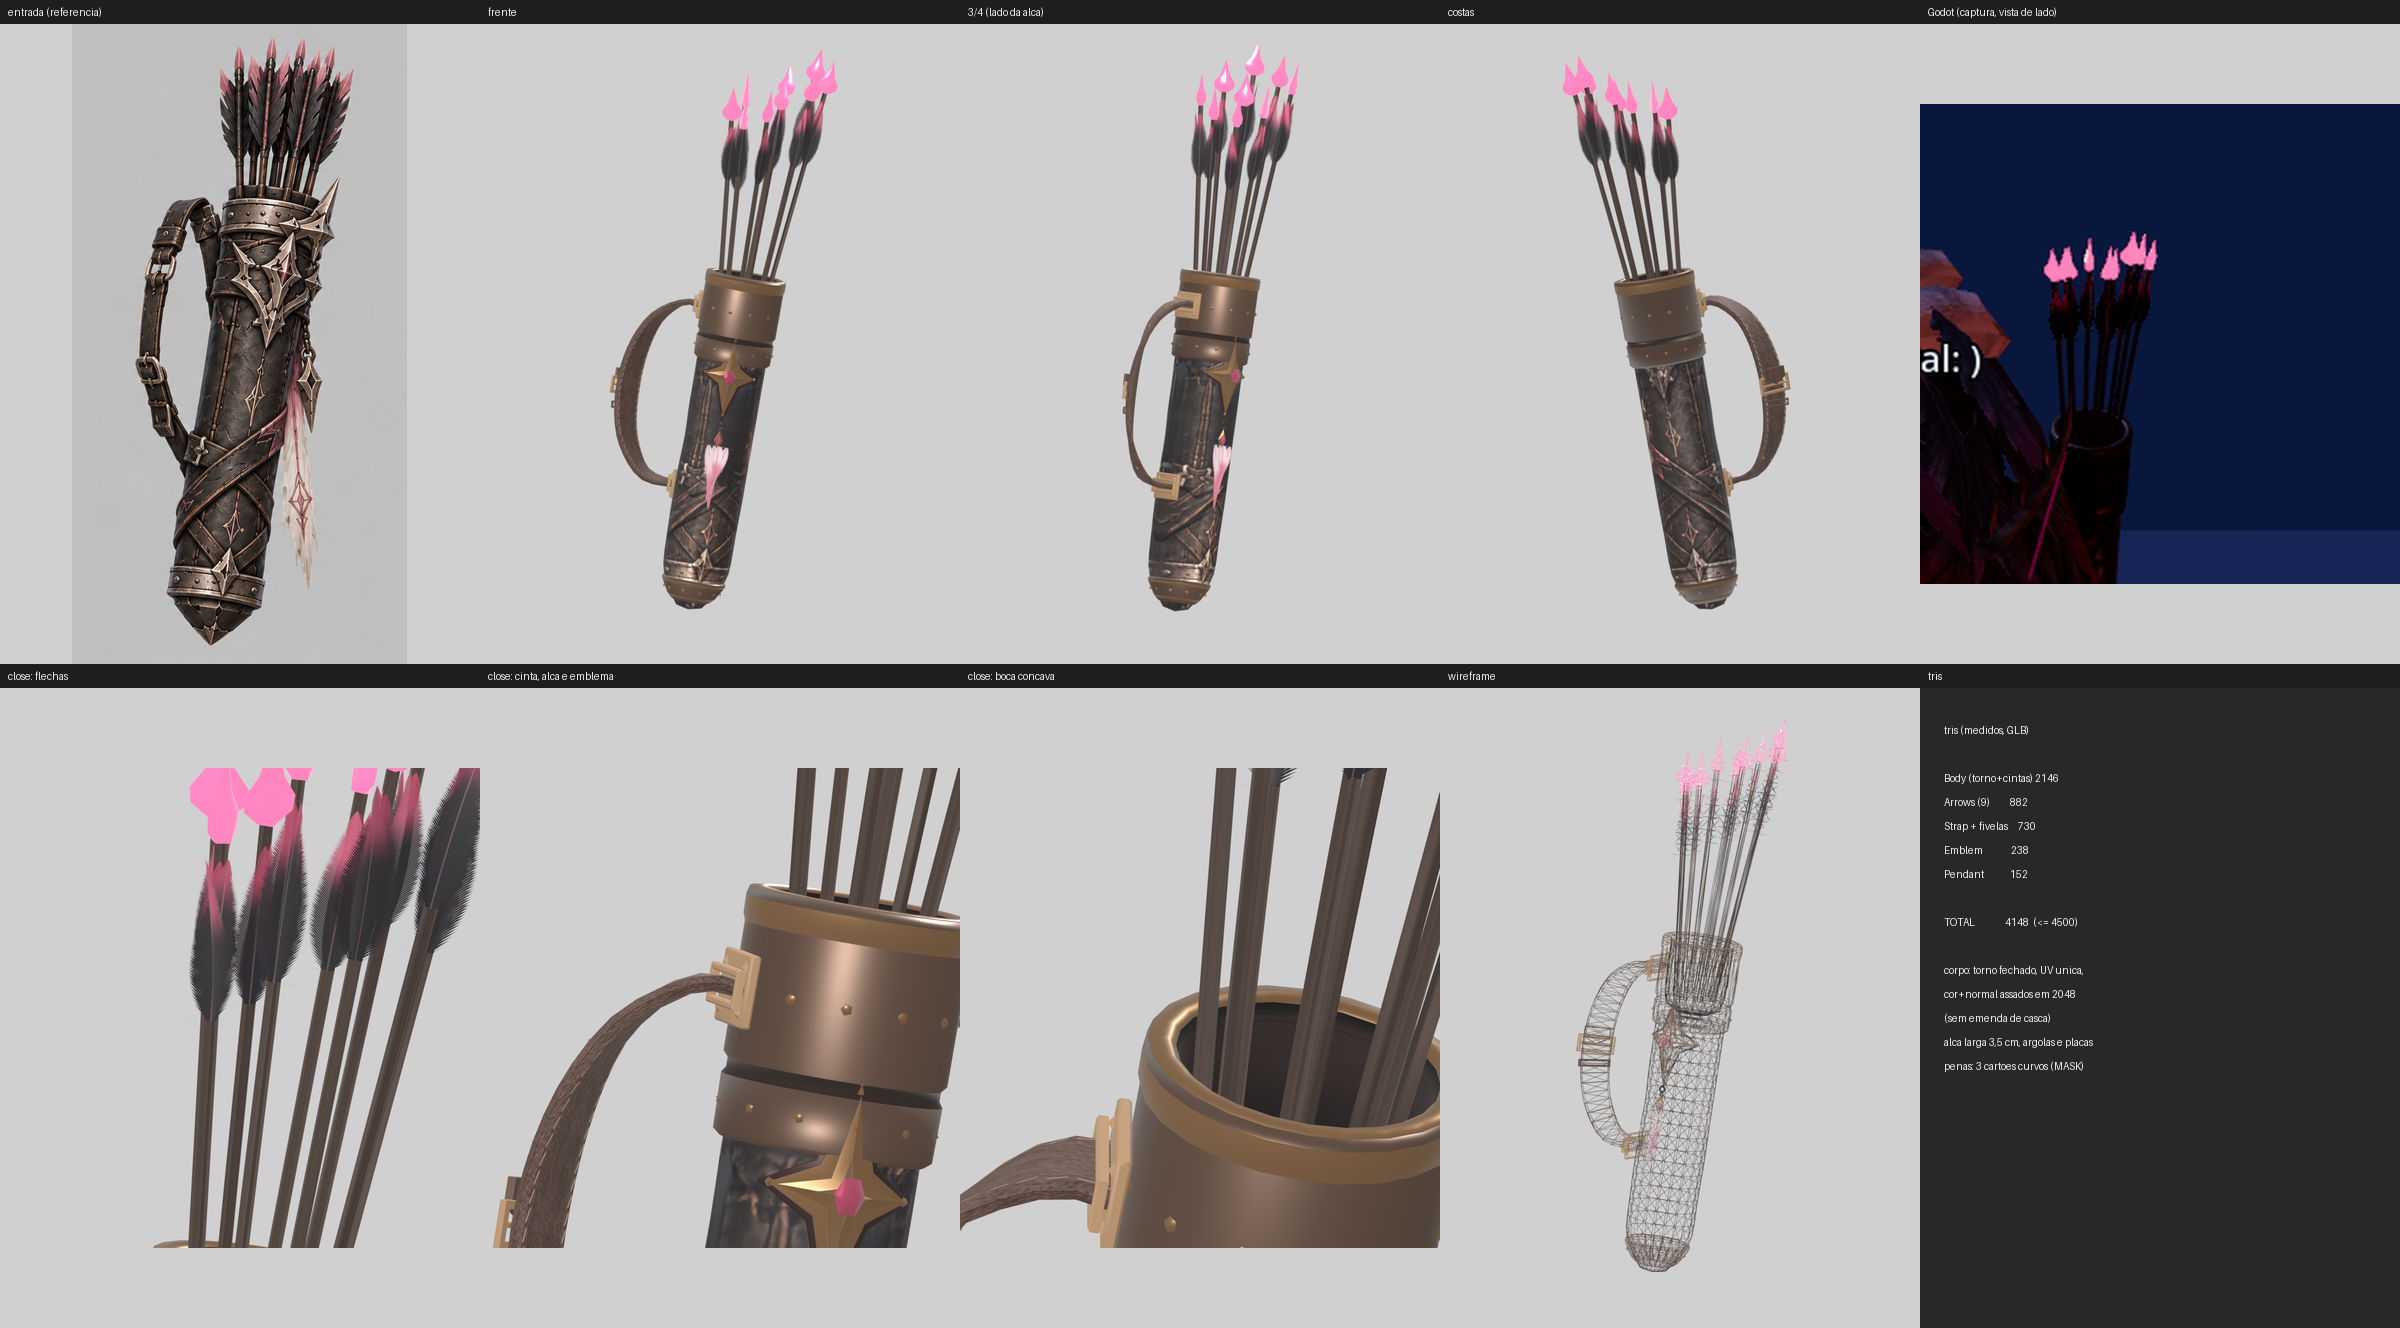
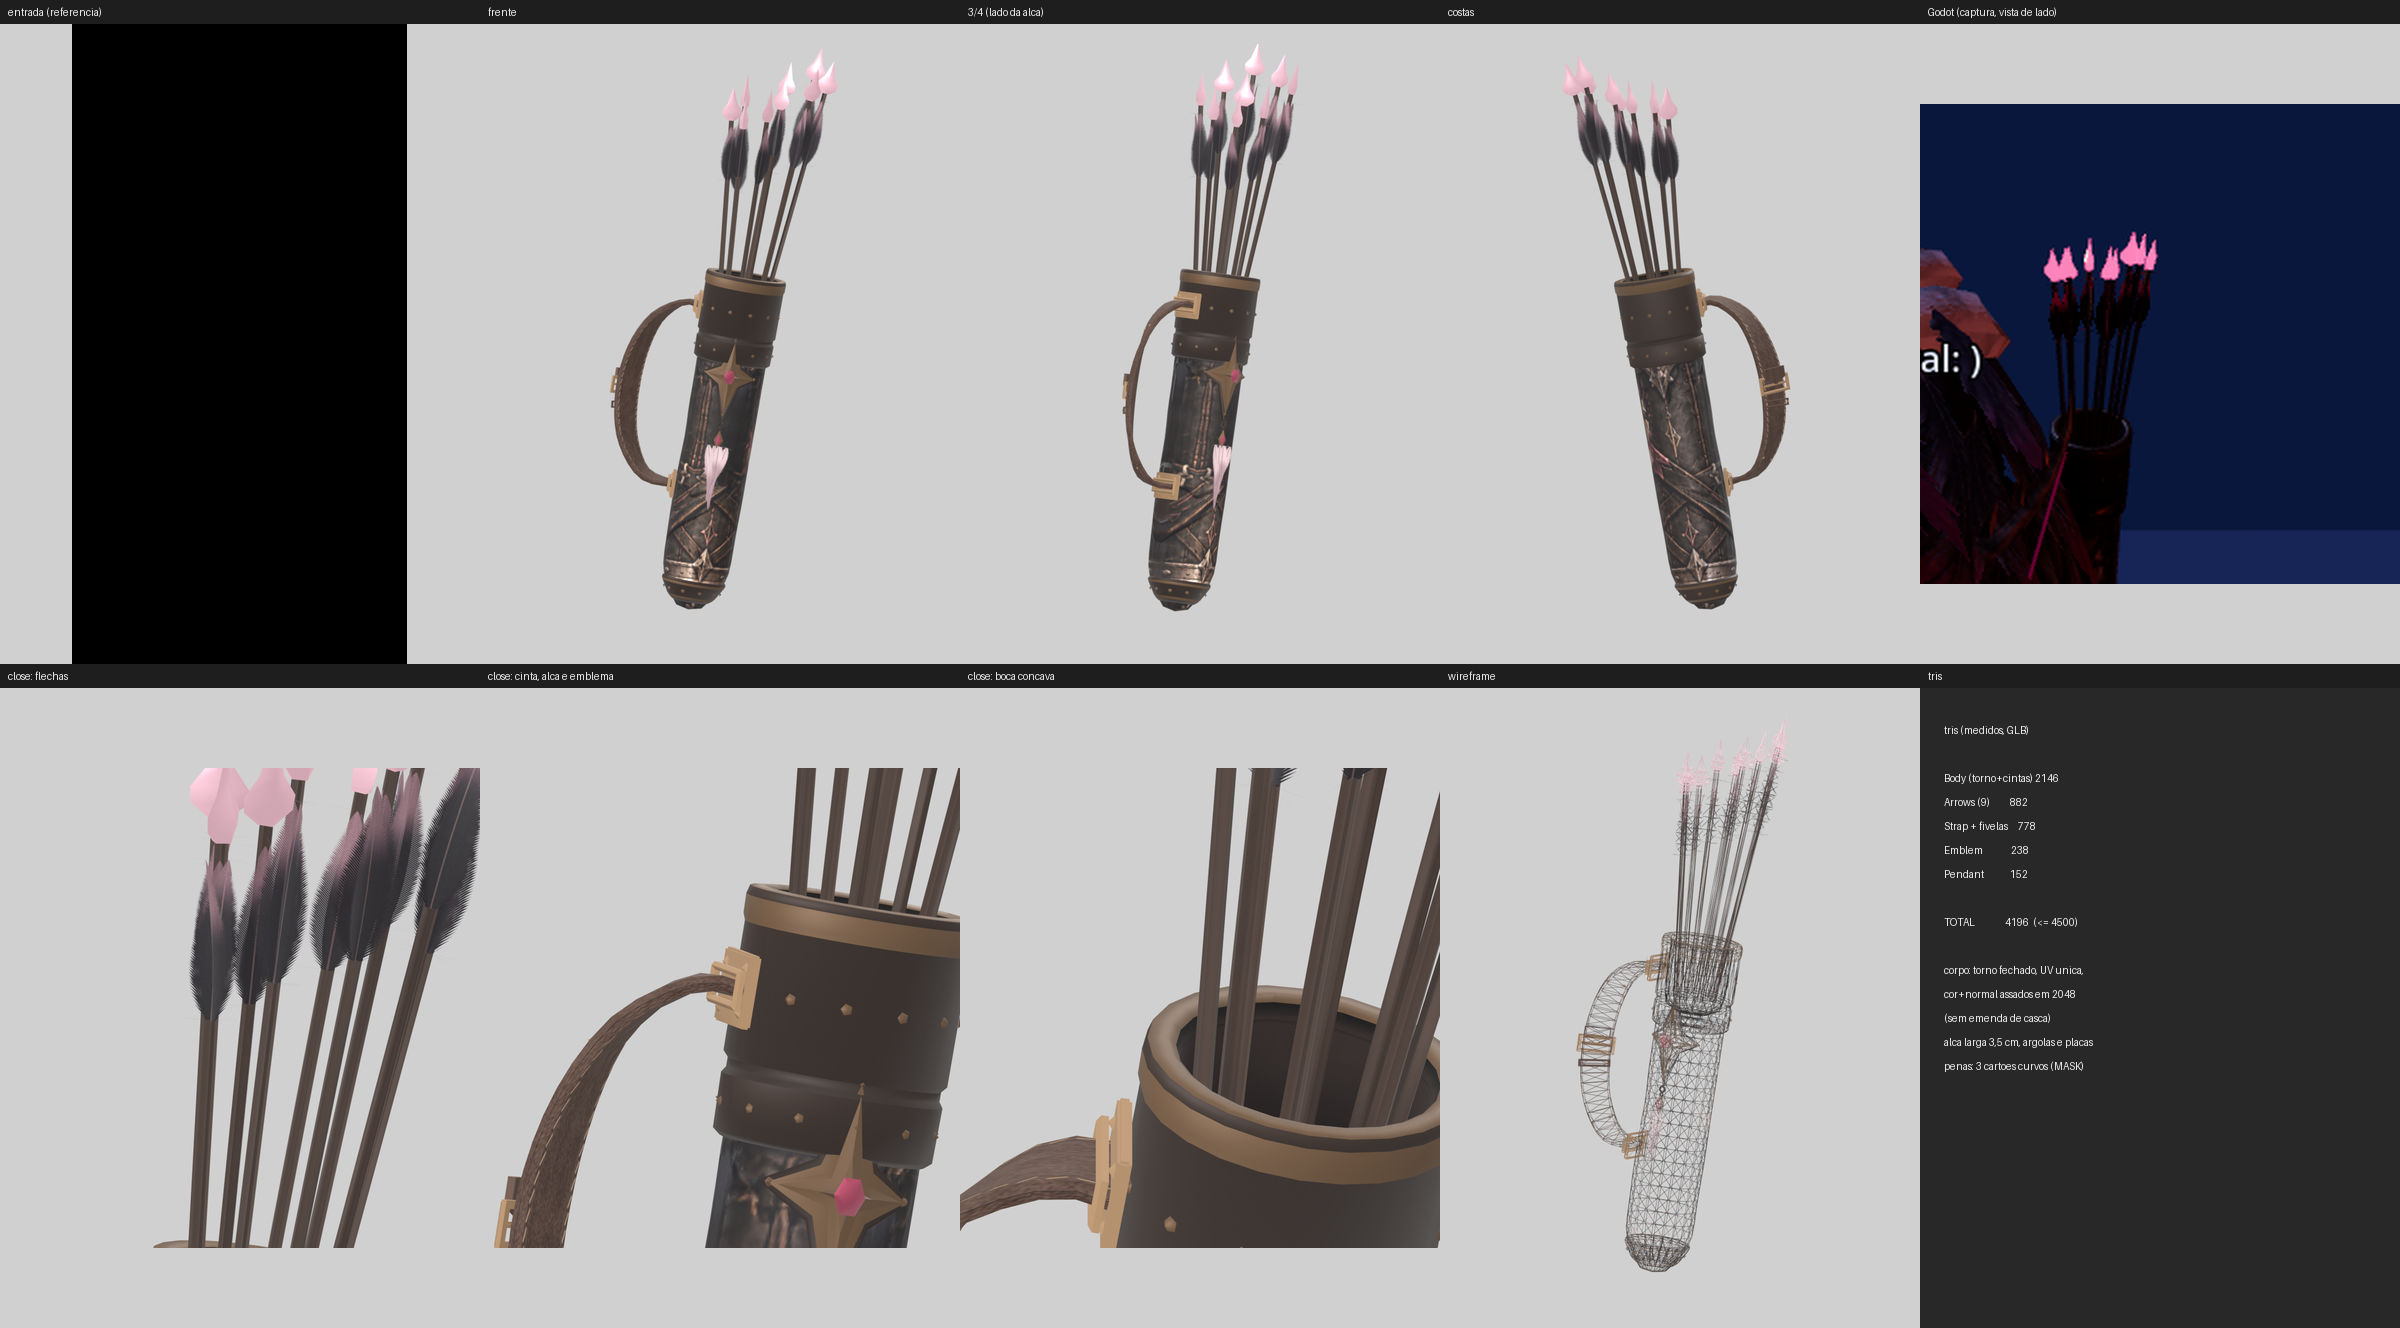
fix(arte): aljava do arqueiro dark - bisel nas fivelas, emblema gasto, rosa e brilho menores
Claude-Session: https://claude.ai/code/session_01WC4FgazM6iEKfa9eY6QmCj

diff --git a/art-src/modelos/scripts/aljava_v4_build.py b/art-src/modelos/scripts/aljava_v4_build.py
@@ -60,11 +60,11 @@ def mat(name, img=None, nrm=None, rough=0.7, metal=0.0, color=(0.05, 0.04, 0.04,
 
 m_body = mat("M_ArcherDark_Quiver_Body", tex + "/T_ArcherDark_Quiver_Body_BC.png", tex + "/T_ArcherDark_Quiver_Body_N.png", rough=0.72, nstr=1.6, cull=True)
 m_in = mat("M_ArcherDark_Quiver_Inside", tex + "/T_ArcherDark_Inside_BC.png", rough=0.95, cull=True)
-m_metal = mat("M_ArcherDark_Metal", tex + "/T_ArcherDark_Emblem_BC.png", tex + "/T_ArcherDark_Emblem_N.png", rough=0.42, metal=0.65, nstr=1.4)
+m_metal = mat("M_ArcherDark_Metal", tex + "/T_ArcherDark_Emblem_BC.png", tex + "/T_ArcherDark_Emblem_N.png", rough=0.62, metal=0.35, nstr=1.4)
 m_arr = mat("M_ArcherDark_Arrows", tex + "/T_ArcherDark_Arrows_BC.png", rough=0.6, alpha=True)
-m_tip = mat("M_ArcherDark_ArrowTip", rough=0.2, metal=0.85, color=(0.93, 0.20, 0.42, 1), emit=(1.0, 0.18, 0.42, 1))
-m_strap = mat("M_ArcherDark_Strap", tex + "/T_ArcherDark_Strap_BC.png", tex + "/T_ArcherDark_Strap_N.png", rough=0.7, nstr=1.3)
-m_emb = mat("M_ArcherDark_Emblem", tex + "/T_ArcherDark_Emblem_BC.png", tex + "/T_ArcherDark_Emblem_N.png", rough=0.4, metal=0.65, nstr=1.4)
+m_tip = mat("M_ArcherDark_ArrowTip", rough=0.5, metal=0.45, color=(0.62, 0.40, 0.46, 1), emit=(0.42, 0.22, 0.27, 1))
+m_strap = mat("M_ArcherDark_Strap", tex + "/T_ArcherDark_Strap_BC.png", tex + "/T_ArcherDark_Strap_N.png", rough=0.8, nstr=1.3)
+m_emb = mat("M_ArcherDark_Emblem", tex + "/T_ArcherDark_Emblem_BC.png", tex + "/T_ArcherDark_Emblem_N.png", rough=0.6, metal=0.35, nstr=1.4)
 
 UV_PLATE = (0.25, 0.75); UV_STAR = (0.75, 0.75); UV_GEM = (0.5, 0.375); UV_COLLAR = (0.25, 0.125); UV_DARK = (0.75, 0.125)
 UV_LEATHER = (0.25, 0.5); UV_MET_S = (0.75, 0.5)
@@ -81,7 +81,7 @@ class B:
 def bevbox(b, c, ax, ay, az, hx, hy, hz, bev, uv, m=0):
     bm = bmesh.new(); bmesh.ops.create_cube(bm, size=2.0)
     for v in bm.verts: v.co = Vector((v.co.x * hx, v.co.y * hy, v.co.z * hz))
-    bmesh.ops.bevel(bm, geom=list(bm.edges), offset=bev, segments=1, affect='EDGES')
+    bmesh.ops.bevel(bm, geom=list(bm.edges), offset=bev, segments=2, affect='EDGES')
     bm.verts.ensure_lookup_table(); idx = {}
     for v in bm.verts: idx[v.index] = b.vert(c + ax * v.co.x + ay * v.co.y + az * v.co.z, uv)
     flip = (ax.cross(ay)).dot(az) < 0
@@ -352,7 +352,7 @@ def anchor(zc, x_surf, outward):
         for sz in (-1, 1):
             dome(bs, c + ax_t * 0.0155 * sx + ax_z * 0.0095 * sz + ax_r * 0.0022, ax_r, 0.0026, 0.0020, UV_MET_S, 5)
     cf = c + ax_r * 0.0054
-    frame_rect(bs, cf, ax_t, ax_z, ax_r, 0.0215, 0.0085, 0.0018, 0.0032, 0.0008, UV_MET_S, 0)
+    frame_rect(bs, cf, ax_t, ax_z, ax_r, 0.0215, 0.0085, 0.0018, 0.0032, 0.0014, UV_MET_S, 0)
 
 
 anchor(Z_TOPA, 0.0475, -1)
@@ -361,8 +361,8 @@ anchor(Z_LOWA, r_low, -1)
 for t, tail in ((0.50, True),):
     p, (tg, W, N) = at(t)
     c = p + N * (HT + 0.0018)
-    frame_rect(bs, c, tg, W, N, 0.0105, HW + 0.0050, 0.0018, 0.0036, 0.0008, UV_MET_S)
-    bevbox(bs, c + N * 0.0008, tg, W, N, 0.0013, HW + 0.0010, 0.0016, 0.0005, UV_MET_S)
+    frame_rect(bs, c, tg, W, N, 0.0105, HW + 0.0050, 0.0018, 0.0036, 0.0014, UV_MET_S)
+    bevbox(bs, c + N * 0.0008, tg, W, N, 0.0013, HW + 0.0010, 0.0016, 0.0010, UV_MET_S)
     pk, (tk, Wk, Nk) = at(t + 0.08)
     frame_rect(bs, pk + Nk * (HT + 0.0014), tk, Wk, Nk, 0.0042, HW + 0.0016, 0.0013, 0.0017, 0.0005, UV_LEATHER)
     for sy in (-1, 1): dome(bs, pk + Nk * (HT + 0.0026) + Wk * (HW - 0.0004) * sy, Nk, 0.0016, 0.0013, UV_MET_S, 5)

diff --git a/art-src/modelos/scripts/aljava_v4_tex.py b/art-src/modelos/scripts/aljava_v4_tex.py
@@ -53,20 +53,20 @@ def feather(seed, base, pink_from, pink_amt, tipc, bars):
     return pm.resize((256, 512), Image.LANCZOS), a.resize((256, 512), Image.LANCZOS)
 
 
-variants = [dict(seed=1, base=(22, 18, 26), pink_from=0.50, pink_amt=0.92, tipc=(214, 86, 120), bars=70),
-            dict(seed=2, base=(15, 12, 20), pink_from=0.62, pink_amt=0.85, tipc=(196, 70, 108), bars=64),
-            dict(seed=3, base=(30, 24, 32), pink_from=0.42, pink_amt=1.0, tipc=(224, 104, 136), bars=76),
-            dict(seed=4, base=(222, 196, 200), pink_from=0.35, pink_amt=0.65, tipc=(214, 96, 128), bars=58)]
+variants = [dict(seed=1, base=(22, 18, 26), pink_from=0.50, pink_amt=0.92, tipc=(168, 126, 138), bars=70),
+            dict(seed=2, base=(15, 12, 20), pink_from=0.62, pink_amt=0.85, tipc=(158, 118, 130), bars=64),
+            dict(seed=3, base=(30, 24, 32), pink_from=0.42, pink_amt=1.0, tipc=(176, 134, 146), bars=76),
+            dict(seed=4, base=(222, 196, 200), pink_from=0.35, pink_amt=0.65, tipc=(170, 132, 142), bars=58)]
 atl = Image.new("RGBA", (1024, 1024), (20, 16, 20, 255))
 for i, vp in enumerate(variants):
     c, a = feather(**vp); c = c.convert("RGBA"); c.putalpha(a); atl.paste(c, (i * 256, 0))
 A = np.asarray(atl, np.float32).copy()
 sh = np.zeros((512, 256, 3), np.float32) + np.array([54, 38, 30]) + noise(512, 256, 4)[..., None] * 22
 gx = np.linspace(-1, 1, 256)[None, :]; sh *= (1 - 0.35 * gx ** 2)[..., None]
-for y0 in (60, 90, 420, 450): sh[y0:y0 + 10] = [200, 80, 112]
+for y0 in (60, 90, 420, 450): sh[y0:y0 + 10] = [170, 126, 140]
 A[512:, 0:256, :3] = sh; A[512:, 0:256, 3] = 255
 g = np.linspace(-1, 1, 256)[None, :] * np.ones((512, 1))
-hd = np.zeros((512, 256, 3), np.float32) + np.array([156, 54, 88]) + (1 - np.abs(g) ** 1.5)[..., None] * np.array([70, 40, 50])
+hd = np.zeros((512, 256, 3), np.float32) + np.array([120, 98, 108]) + (1 - np.abs(g) ** 1.5)[..., None] * np.array([40, 26, 30])
 hd += (np.abs(g) < 0.05)[..., None] * 60 + noise(512, 256, 8)[..., None] * 12
 A[512:, 256:512, :3] = hd; A[512:, 256:512, 3] = 255
 save(A, "T_ArcherDark_Arrows_BC.png")
@@ -118,6 +118,13 @@ for yb in (0, 256):
     pass
 wear = noise(512, 512, 18)
 E += sc_[..., None] * 38 * (np.array([1.0, 0.95, 0.85], np.float32))
+# gasto: estrela com gradiente, cavidades escurecidas e desgaste que mostra o ferro embaixo (nao chapado)
+gy2 = np.linspace(0, 1, 512)[:, None, None]
+E[:256, 256:] *= (1.12 - 0.42 * gy2[:256])
+cav = np.clip(noise(512, 512, 7) - 0.55, 0, 1) * 2.2
+E *= (1 - 0.45 * cav[..., None])
+wr = noise(512, 512, 9) > 0.66
+E[wr] = E[wr] * 0.35 + np.array([62, 48, 44], np.float32) * 0.65
 E *= (0.82 + 0.3 * wear[..., None])
 EH = noise(512, 512, 2) * 0.5 + sc_ * -0.9 + noise(512, 512, 14) * 0.4
 gy, gx = np.gradient(EH * 5.0)
